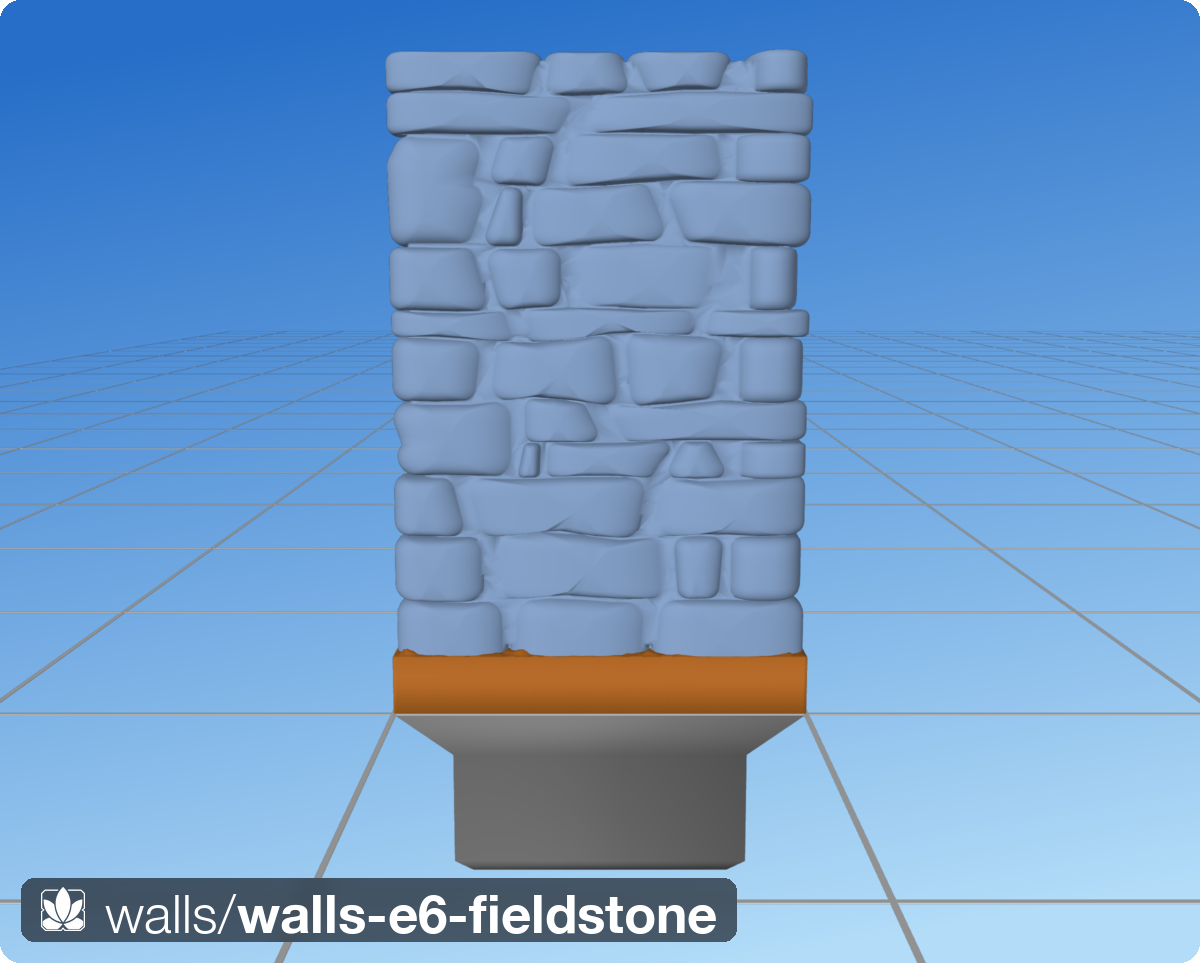
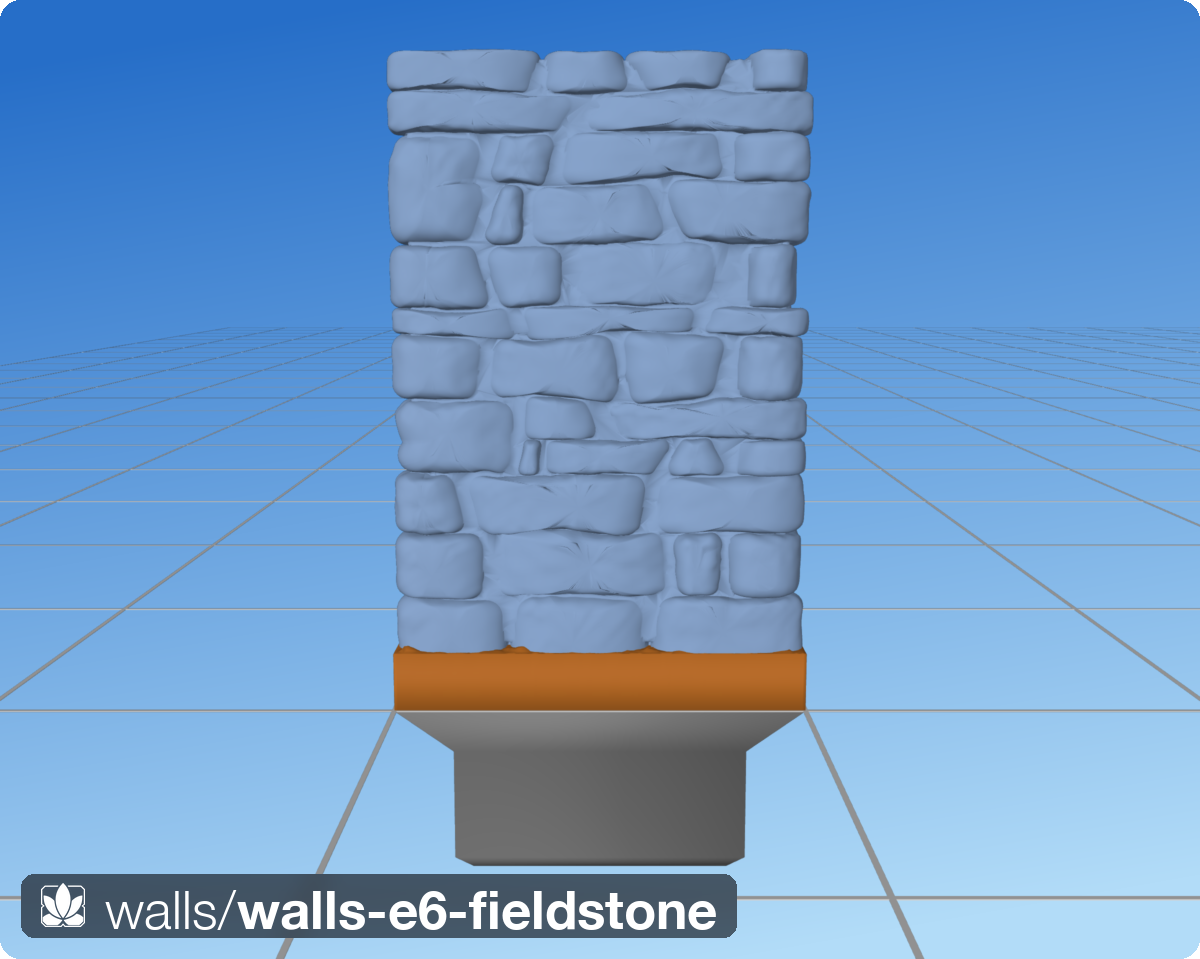
Walls: fieldstone E20 — scatter-stones surface texture
Shawn (after approving E19): apply our existing rock texture to the
stone surfaces.

- _stone_texture ports the shipped stones.py aged pass at wall-stone
  scale: broad organic undulation (6 waves, foot/4.5..foot/1.6,
  spectral 1.0; auto amplitude clip(0.03*foot, 0.10, 0.30)) plus
  granular drybrush tooth (16 waves 0.9-3.2mm), modulated by the
  patchy 3-wave envelope (calm fields vs active shoulders)
- displacement along Taubin-smoothed normals with curvature damping,
  which also protects the crack roots — exactly where the zero-gap
  stones touch
- relief_mm=None means auto amplitude from footprint; 0 disables; a
  number overrides the undulation amplitude (the base ctor's texture
  preset substitution is bypassed after super().__init__)

Red-mortar diag 0.0000 on all five views.

diff --git a/src/dharmatiles/walls/fieldstone.py b/src/dharmatiles/walls/fieldstone.py
@@ -42,7 +42,7 @@ import numpy as np
 import trimesh
 
 from ..scatter.stones import _relief_field, _round_edges
-from .masonry import CutStoneWall, _Cell, _Seg, _RELIEF_WAVES
+from .masonry import CutStoneWall, _Cell, _Seg
 
 # ── Iteration knobs (module constants while prototyping) ─────────────────────
 # Crack network
@@ -165,7 +165,7 @@ class FieldstoneWall(CutStoneWall):
                                            # with no gap at its root)
                  reveal_mm: float = 2.8,
                  roundover_mm: tuple[float, float] = (0.9, 2.0),
-                 relief_mm:    float | None = 0.0,
+                 relief_mm:    float | None = None,
                  relief_wl:    tuple[float, float] | None = (3.0, 9.0),
                  min_bond_mm:  float = 1.8,
                  **kwargs):
@@ -174,6 +174,10 @@ class FieldstoneWall(CutStoneWall):
                          roundover_mm=roundover_mm, relief_mm=relief_mm,
                          relief_wl=relief_wl, min_bond_mm=min_bond_mm,
                          **kwargs)
+        # The base ctor substitutes its texture preset when relief_mm
+        # is None, but for fieldstone None means "auto amplitude from
+        # the stone's footprint" (_stone_texture) — restore it.
+        self.relief_mm = relief_mm
         self._beds:   dict[tuple, tuple] = {}   # (seg, zkey) → sine params
         self._drifts: dict[tuple, float] = {}   # (seg, course, tkey) → drift
 
@@ -452,22 +456,17 @@ class FieldstoneWall(CutStoneWall):
         body = trimesh.Trimesh(vertices=v, faces=f, process=False)
         trimesh.repair.fix_normals(body)
 
-        # Optional relief (off by default since E15 — crisp prisms with
-        # roundovers only): subdivide for sampling density, displace,
-        # then light Taubin to soften the plane-wave crests, whose
-        # organised interference pattern reads clearly on flat faces.
-        # No voxel remesh: the fitted silhouette must not shrink or
-        # soften (the E7 shave lesson).
-        if self.relief_mm > 0.0:
-            body = body.subdivide()
-            disp = self.relief_mm * _relief_field(
-                body.vertices, brng, _RELIEF_WAVES, *self.relief_wl)
-            body = trimesh.Trimesh(
-                vertices=(body.vertices
-                          + np.asarray(body.vertex_normals)
-                          * disp[:, None]),
-                faces=body.faces, process=False)
-            trimesh.smoothing.filter_taubin(body, iterations=4)
+        # Surface texture (E20): the SHIPPED scatter-stones recipe
+        # (stones.py aged pass), scaled to wall-stone footprints —
+        # broad organic undulation + granular drybrush micro-grain,
+        # modulated by a patchy envelope (calm fields vs active
+        # shoulders), displaced along SMOOTHED normals with curvature
+        # damping (relief fades in tight concave features — which also
+        # protects the crack roots, exactly where stones touch).
+        # relief_mm: None = auto amplitude from the stone's footprint;
+        # 0 disables; a number overrides the undulation amplitude.
+        if self.relief_mm is None or self.relief_mm > 0.0:
+            body = self._stone_texture(body, brng)
 
         m = np.eye(4)
         m[:2, 0] = seg.d
@@ -476,6 +475,49 @@ class FieldstoneWall(CutStoneWall):
         m[2, 3] = seat_z
         body.apply_transform(m)
         return body
+
+    def _stone_texture(self, body: trimesh.Trimesh,
+                       brng: np.random.Generator) -> trimesh.Trimesh:
+        """The scatter-stones aged surface, at wall-stone scale
+        (mirrors stones.py: undulation + micro-grain × patchy envelope,
+        smoothed normals, curvature damping)."""
+        body = body.subdivide()
+        p = np.asarray(body.vertices)
+        foot = float(np.ptp(p[:, [0, 2]], axis=0).max())
+
+        relaxed = trimesh.Trimesh(vertices=p.copy(),
+                                  faces=np.asarray(body.faces).copy(),
+                                  process=False)
+        trimesh.smoothing.filter_taubin(relaxed, iterations=10)
+        vn = np.asarray(relaxed.vertex_normals)
+        cd = np.linalg.norm(p - np.asarray(relaxed.vertices), axis=1)
+        curv_damp = 1.0 / (1.0 + (cd / 0.35) ** 2)
+
+        # Broad pillowy undulation (stones.py: 6 waves, foot/4.5 …
+        # foot/1.6, spectral 1.0).
+        f = 0.35 * _relief_field(p, brng, 6,
+                                 max(foot / 4.5, 1.2),
+                                 max(foot / 1.6, 3.0), spectral=1.0)
+        amp = (float(np.clip(0.030 * foot, 0.10, 0.30))
+               if self.relief_mm is None else self.relief_mm)
+        # Granular drybrush tooth (stones.py: 16 waves 0.6–3.2 mm; the
+        # low end lifted to the subdivided mesh's ~0.6 mm edge length).
+        g = 0.7 * _relief_field(p, brng, 16, 0.9, 3.2, spectral=0.7)
+        amp_g = float(np.clip(0.012 * foot, 0.10, 0.25))
+
+        # Patchy envelope: calm fields vs active shoulders.
+        env = np.zeros(len(p))
+        for _ in range(3):
+            d = brng.normal(size=3)
+            d /= np.linalg.norm(d) + 1e-12
+            ewl = foot / brng.uniform(0.9, 1.4)
+            env += np.cos(2.0 * np.pi / ewl * (p @ d)
+                          + brng.uniform(0.0, 2.0 * np.pi))
+        env = 0.2 + 0.8 * np.clip(0.5 + 0.75 * env / 3.0, 0.0, 1.0)
+
+        disp = (amp * f + amp_g * 0.5 * g) * env * curv_damp
+        return trimesh.Trimesh(vertices=p + vn * disp[:, None],
+                               faces=body.faces, process=False)
 
     # ── rubble hearting ──────────────────────────────────────────────────────
     def _extra_parts(self, segs: list[_Seg], seat_z: float,

diff --git a/docs/design/walls-coursed-masonry.md b/docs/design/walls-coursed-masonry.md
@@ -193,7 +193,8 @@ unioned surface — the DB set-13 signature).
 | E16 | **Big random roundovers** (Shawn: way more, randomised): `roundover_mm` is now a per-stone RANGE, default 0.9–2.0 mm, applied to both the 2D outline corners and the face↔side arc; ring normals smoothed 2 passes (raw vertex-normal insets fold at concave drift jogs at these radii); cap-triangulation grid clearance follows the roundover.  Per-stone cap `_ROUND_SIZE_CAP` = 0.22 × the outline's smaller dimension — at 0.38 the roundover ate the faces of thin stones and they read as dark slots.  Red 0.0000 all five views | Shawn: "pretty good" + next step |
 | E17 | **Full pebble morph** (Shawn: "an isosphere morphed to fit the outline/depth of the cracked region … an irregular stone instead of a block with rounded corners").  Sphere topology per stone: longitude follows the crack-bounded outline (the EQUATOR ring is the outline at mid-depth — silhouette, cracks, and dimensions unchanged); latitude sweeps a superellipse meridian `s=(1−|sin lat|^a)^b` from face pole to face pole, exponents drawn per pole (asymmetric bulge), poles drifting off-centre.  A true ellipse meridian (first cut) read as MELTED dough — all curvature at the silhouette, equator-line contact, cracks became soft wide valleys; the fuller superellipse (a 2.0–3.2, b 0.30–0.45) keeps a gently domed face and drops fast near the silhouette so cracks stay narrow and dark.  Delaunay cap machinery deleted (sphere poles are small fans on curved domes — clean under smooth shading); cap stones no longer crown-flat (R6 relaxed for this family: rounded cobble tops).  Red 0.0000 all five views | Shawn: ✓ + next tweak |
 | E18 | **Zero gap** (Shawn: with the pebble morph the cracks are the curved edges themselves): `joint_mm` 0.1 → 0.0 — neighbouring stones TOUCH at their shared equator lines; the crack is a V-groove with no gap at its root, drawn entirely by the two pole-ward curvatures meeting.  Manifold union handles the line contacts cleanly (bed contacts micro-overlap from independent polyline sampling of the shared curve; head joints share exact segments); no watertightness warnings.  Red 0.0000 all five views | Shawn: ✓ + next tweak |
-| E19 | **Flat beds, shorter courses** (Shawn: piling flat stones, not curved; fewer tall cross-row stones; +20 % horizontal cracks): the morph goes anisotropic — z-scale = s^p with p 0.22–0.42 per stone (`_BED_FLAT_EXP`), so bed surfaces stay near-flat planes over most of the depth and only turn down at the face poles; courses 2.3–6.2 (−20 %); throughstone merges capped at 9.5 mm total height (`_THROUGH_MAX_MM`).  Red 0.0000 all five views | pending Shawn |
+| E19 | **Flat beds, shorter courses** (Shawn: piling flat stones, not curved; fewer tall cross-row stones; +20 % horizontal cracks): the morph goes anisotropic — z-scale = s^p with p 0.22–0.42 per stone (`_BED_FLAT_EXP`), so bed surfaces stay near-flat planes over most of the depth and only turn down at the face poles; courses 2.3–6.2 (−20 %); throughstone merges capped at 9.5 mm total height (`_THROUGH_MAX_MM`).  Red 0.0000 all five views | Shawn: "pretty good!" + next step |
+| E20 | **Scatter-stones surface texture** (Shawn: apply our existing rock texture): `_stone_texture` ports the shipped stones.py aged pass at wall-stone scale — broad organic undulation (6 waves, foot/4.5…foot/1.6, spectral 1.0; auto amplitude clip(0.03·foot, 0.10, 0.30)) + granular drybrush tooth (16 waves 0.9–3.2 mm, clip(0.012·foot, 0.10, 0.25)×0.5), × patchy 3-wave envelope (floor 0.2), displaced along Taubin-smoothed normals with curvature damping — which also protects the crack roots, exactly where the zero-gap stones touch.  `relief_mm=None` → auto; 0 disables; a number overrides the undulation amplitude (base-ctor preset substitution bypassed post-super).  Red 0.0000 all five views | pending Shawn |
 
 Implementation notes: cut-stone blocks finish through `_blur_remesh`
 (σ 0.7) — `subdivide_to_size` leaves T-junctions that break the
